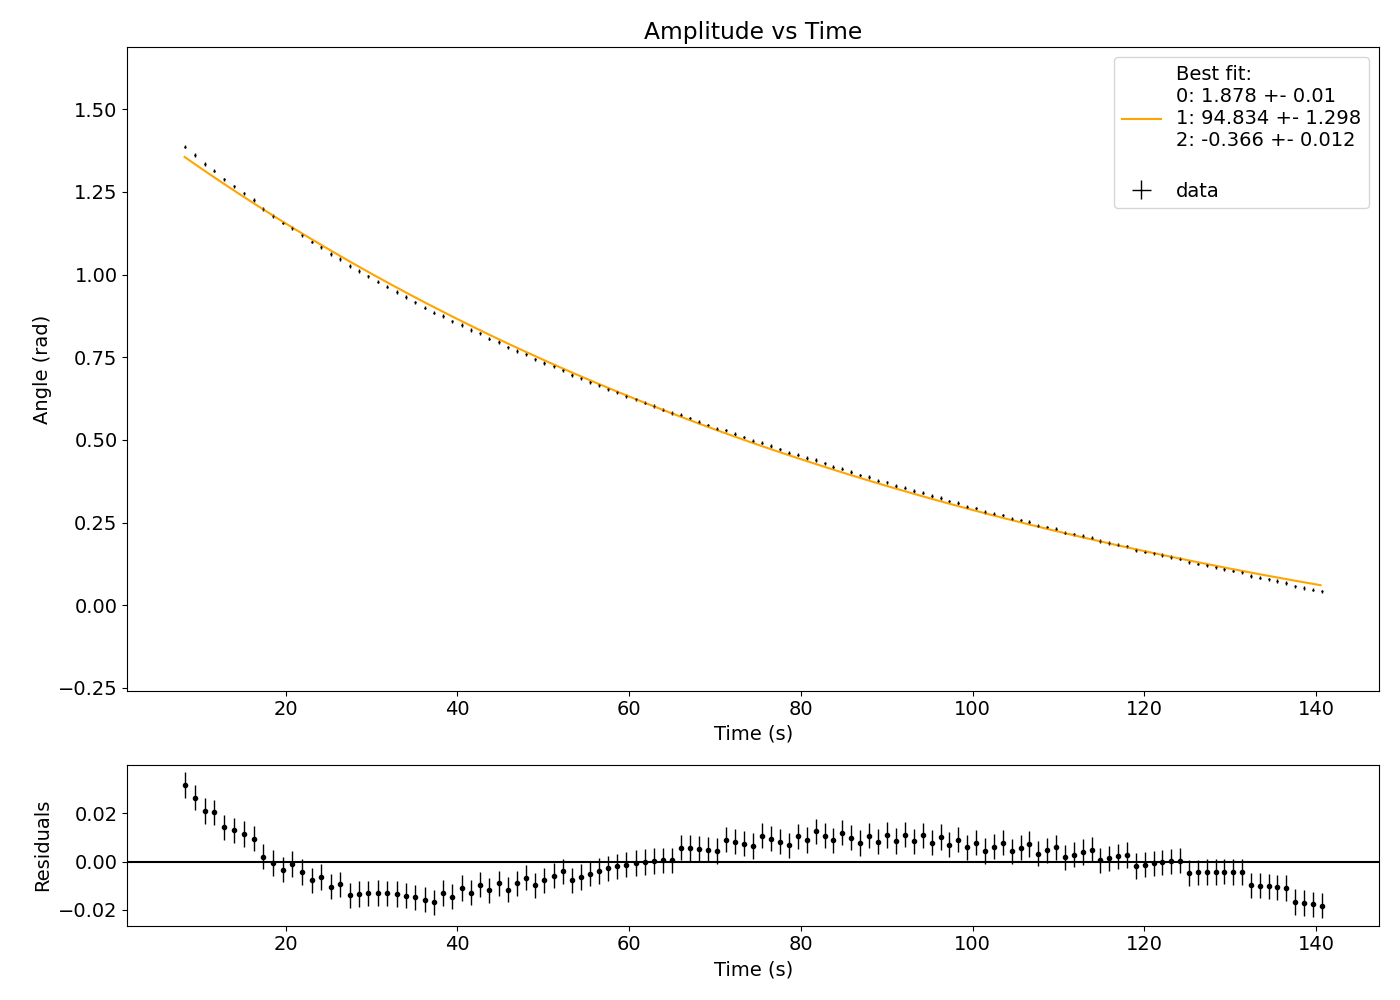
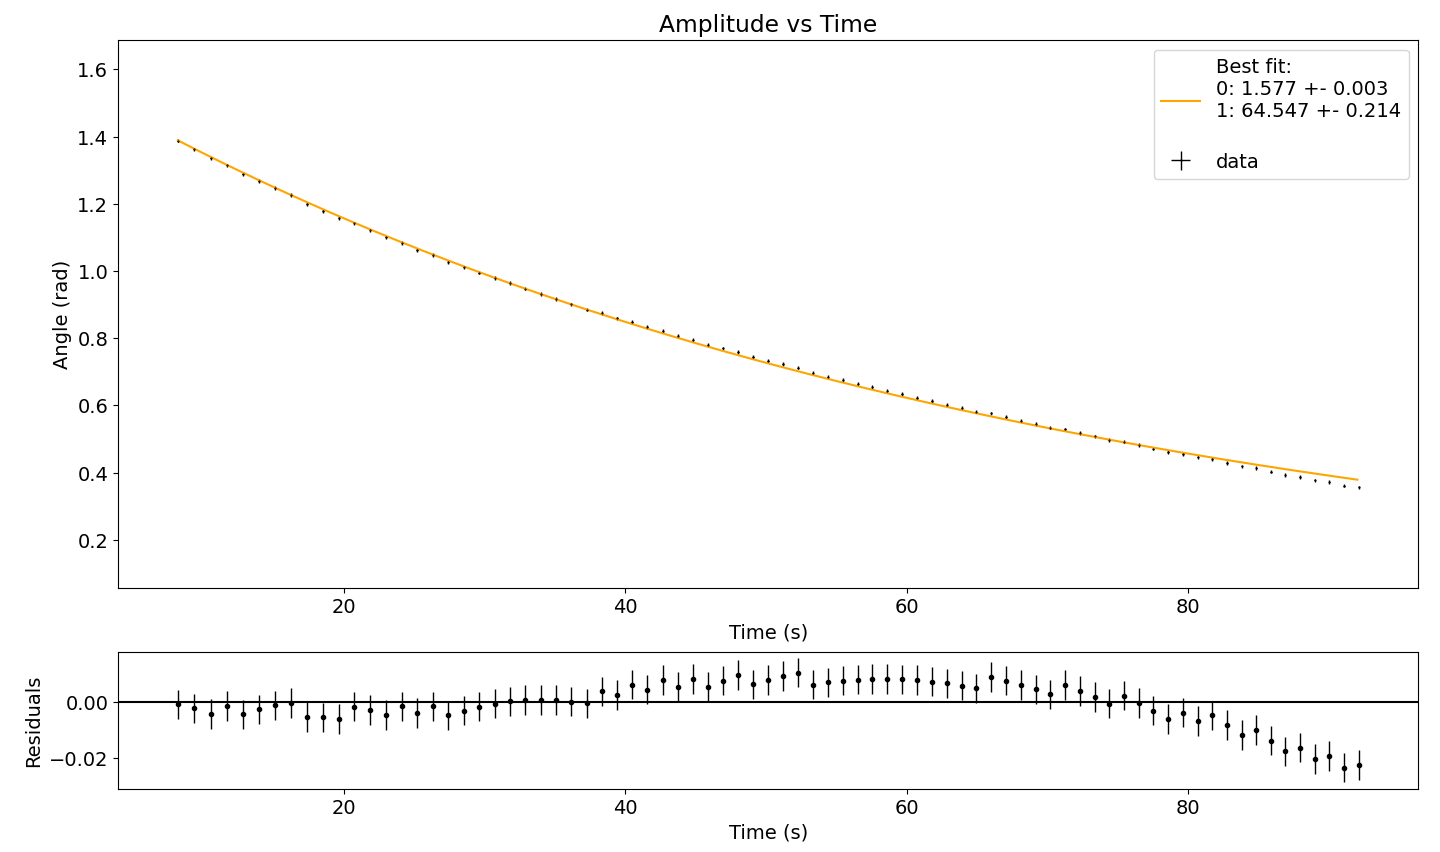
changed

diff --git a/fitPeaks.py b/fitPeaks.py
@@ -2,21 +2,20 @@ from scipy.optimize import curve_fit
 import numpy as np
 import matplotlib.pyplot as plt
 import pandas as pd
-
+import readData as rd
 import fit_black_box as fbb
 
 time_tare = 9.487
 
-data = pd.read_csv("data33.csv", delimiter = ', ')
-timeRaw = data['time'].to_numpy() - time_tare
-angleRaw = data['angle'].to_numpy()
+timeRaw, angleRaw = rd.readData(time_tare, "data33.csv", False)
+
 
 time = []
 angle = []
 prevAngle = 0
 for i in range(0, angleRaw.size - 1):
     k = i
-    if angleRaw[i] <= np.deg2rad(80) and angleRaw[i] >= np.deg2rad(2):
+    if angleRaw[i] <= np.deg2rad(80) and angleRaw[i] >= np.deg2rad(1):
 
         if (prevAngle !=angleRaw[i - 1]):
             print(str(i) + " " + str(angleRaw[i - 1]) + " " + str(prevAngle))
@@ -63,8 +62,8 @@ time_error = np.full(shape=time.size, fill_value=0.05)
 
 angle_error = np.full(shape=time.size, fill_value=np.deg2rad(0.3))
 
-def exp_func(t, i0, tau, shift):
-    return i0 * np.exp(-t/tau) + shift
+def exp_func(t, i0, tau):
+    return i0 * np.exp(-t/tau)
 
 fbb.plot_fit(exp_func, time, angle, xerror=time_error, yerror=angle_error, xlabel="Time (s)", ylabel="Angle (rad)", title="Amplitude vs Time")
 
